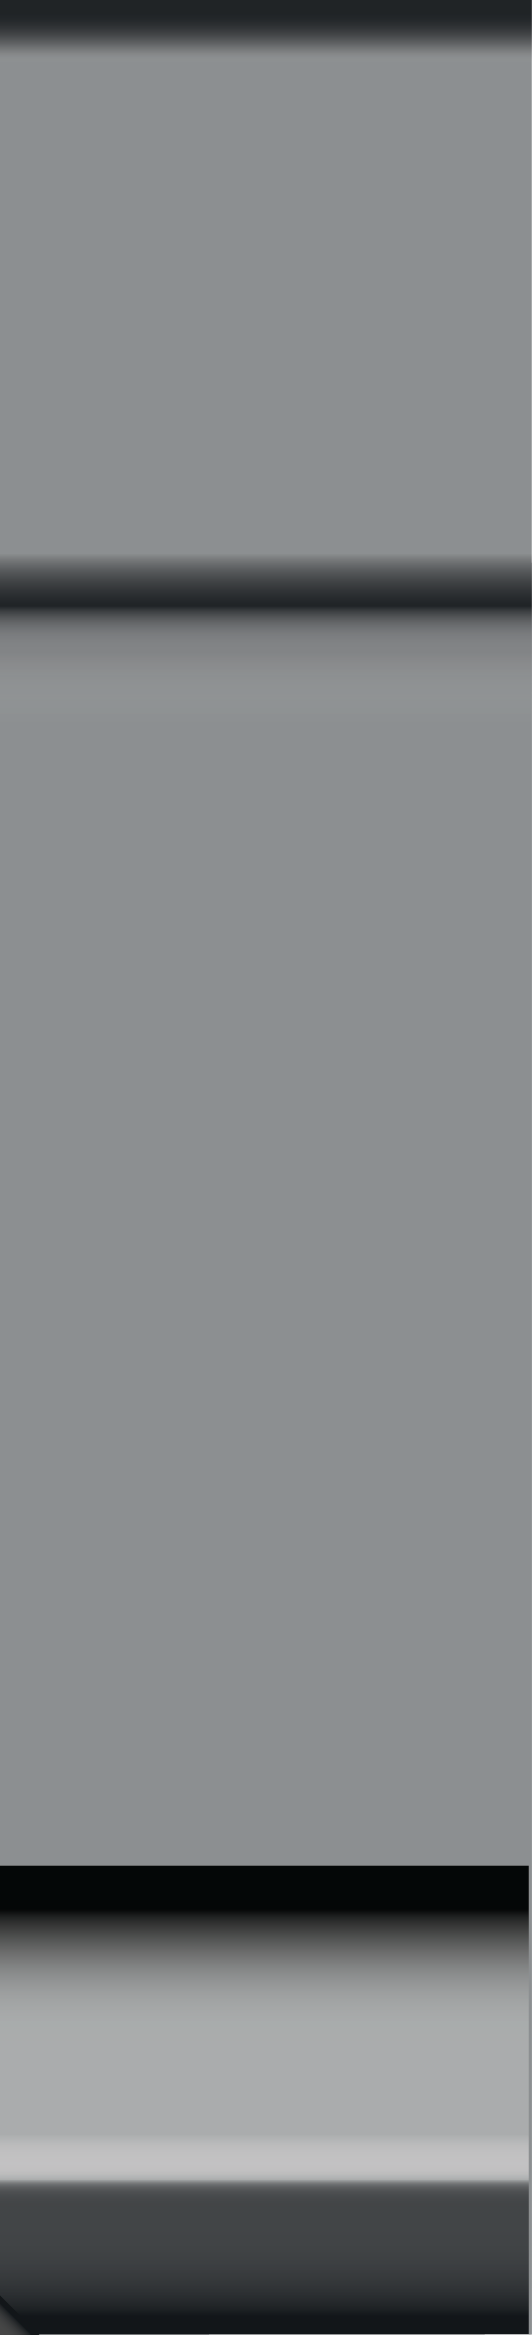
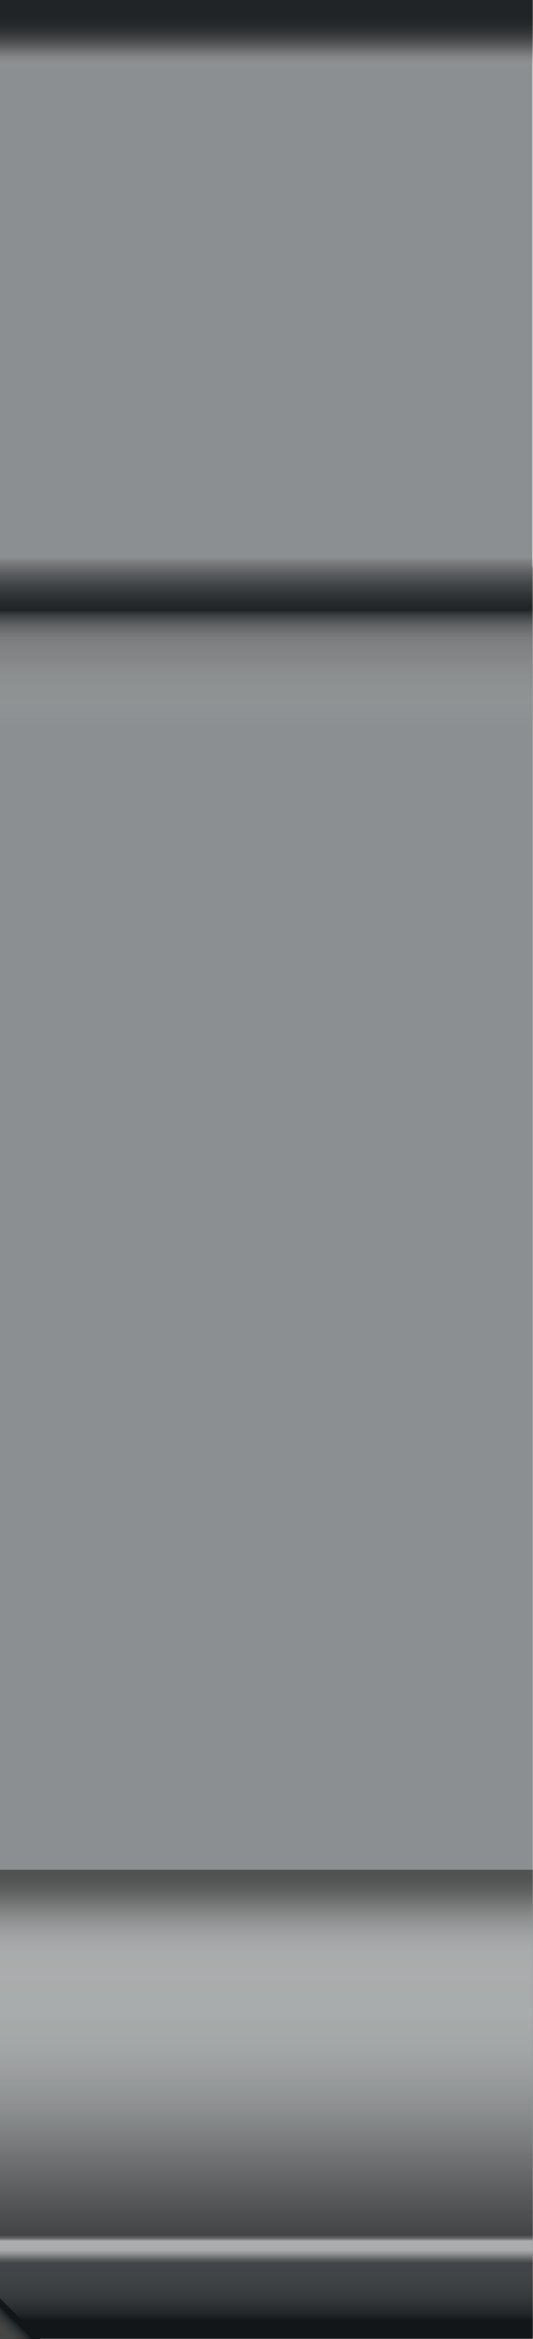
new images

Changed region(s): [[0.0, 0.8017, 1.0, 1.0], [0.9925, 0.0308, 1.0, 0.2775]]

diff --git a/canvasBuilder.js b/canvasBuilder.js
@@ -1323,41 +1323,42 @@ async function buildPatioDoorPanel(targetWidth, targetHeight, frameFinish, showH
     finalCtx.globalAlpha = 1.0;
   }
 
-  // Step 4: Handle (on the opening/sliding panel only)
-  if (showHandle && state.selectedHandle && state.selectedHandle !== "none") {
-    const hDef = handleDefs.find((def) => def.id === state.selectedHandle);
-    if (hDef) {
-      const handleImg = await loadImage(getImageURL(state.selectedHandle));
-      if (handleImg) {
-        const hW = hDef.width;
-        const hH = hDef.height;
-        const hX = handleOnLeft ? hDef.offsetX : targetWidth - hW - hDef.offsetX;
-        const hY = (targetHeight - hH) / 2; // centre vertically for patio panels
+  // Step 4: Patio handle — always uses patio.png, positioned at the outer edge of the sliding panel
+  if (showHandle) {
+    const handleImg = await loadImage(getImageURL("patio"));
+    if (handleImg) {
+      // Display dimensions scaled from 476×847 source image
+      const hW = 50;
+      const hH = 89;
+      const hOffsetX = 10; // distance from panel edge
+      const hX = handleOnLeft ? hOffsetX : targetWidth - hW - hOffsetX;
+      const hY = (targetHeight - hH) / 2; // centred vertically
 
-        const tintedHandle = tintImage(handleImg, hardwareColorMap[state.selectedHardwareColor] || "#000");
+      const tintedHandle = tintImage(handleImg, hardwareColorMap[state.selectedHardwareColor] || "#000");
 
-        finalCtx.save();
-        if (handleOnLeft) {
-          finalCtx.translate(hX + hW / 2, hY + hH / 2);
-          finalCtx.scale(-1, 1);
-          finalCtx.drawImage(tintedHandle, -hW / 2, -hH / 2, hW, hH);
-        } else {
-          finalCtx.drawImage(tintedHandle, hX, hY, hW, hH);
-        }
-        finalCtx.restore();
-
-        finalCtx.globalCompositeOperation = "multiply";
-        finalCtx.save();
-        if (handleOnLeft) {
-          finalCtx.translate(hX + hW / 2, hY + hH / 2);
-          finalCtx.scale(-1, 1);
-          finalCtx.drawImage(handleImg, -hW / 2, -hH / 2, hW, hH);
-        } else {
-          finalCtx.drawImage(handleImg, hX, hY, hW, hH);
-        }
-        finalCtx.restore();
-        finalCtx.globalCompositeOperation = "source-over";
+      finalCtx.save();
+      if (handleOnLeft) {
+        // Mirror so the D-grip opens toward the panel interior
+        finalCtx.translate(hX + hW / 2, hY + hH / 2);
+        finalCtx.scale(-1, 1);
+        finalCtx.drawImage(tintedHandle, -hW / 2, -hH / 2, hW, hH);
+      } else {
+        finalCtx.drawImage(tintedHandle, hX, hY, hW, hH);
       }
+      finalCtx.restore();
+
+      // Multiply shading pass
+      finalCtx.globalCompositeOperation = "multiply";
+      finalCtx.save();
+      if (handleOnLeft) {
+        finalCtx.translate(hX + hW / 2, hY + hH / 2);
+        finalCtx.scale(-1, 1);
+        finalCtx.drawImage(handleImg, -hW / 2, -hH / 2, hW, hH);
+      } else {
+        finalCtx.drawImage(handleImg, hX, hY, hW, hH);
+      }
+      finalCtx.restore();
+      finalCtx.globalCompositeOperation = "source-over";
     }
   }
 
@@ -1375,22 +1376,26 @@ async function renderPatioDoor() {
   const openingPanels = {};
 
   if (config === "patio-2-right") {
-    // O | X  —  right panel slides; handle on its left (inner) edge
+    // O | X  —  right panel slides LEFT into O; handle on outer (right) edge
     numPanels = 2;
-    openingPanels[1] = { handleOnLeft: true };
+    openingPanels[1] = { handleOnLeft: false };
   } else if (config === "patio-2-left") {
-    // X | O  —  left panel slides; handle on its right (inner) edge
+    // X | O  —  left panel slides RIGHT into O; handle on outer (left) edge
     numPanels = 2;
-    openingPanels[0] = { handleOnLeft: false };
+    openingPanels[0] = { handleOnLeft: true };
   } else if (config === "patio-3panel") {
-    // O | X | O  —  middle panel slides; handle side is user-toggleable
+    // O | X | O  —  middle panel slides; handle on side AWAY from the panel it slides into
+    // handleSide "left" means door slides right → handle on left outer edge
+    // handleSide "right" means door slides left → handle on right outer edge
     numPanels = 3;
     openingPanels[1] = { handleOnLeft: state.handleSide === "left" };
   } else if (config === "patio-4panel") {
-    // O | X | X | O  —  inner two panels slide; handles on their meeting stile edges
+    // O | X | X | O  —  inner two panels slide outward to their respective fixed panels
+    // Panel 1 slides LEFT into panel 0 → handle on right (outer) edge
+    // Panel 2 slides RIGHT into panel 3 → handle on left (outer) edge
     numPanels = 4;
-    openingPanels[1] = { handleOnLeft: false }; // right edge faces panel 2
-    openingPanels[2] = { handleOnLeft: true };  // left edge faces panel 1
+    openingPanels[1] = { handleOnLeft: false };
+    openingPanels[2] = { handleOnLeft: true };
   }
 
   const totalWidth = displayPixels.width;
